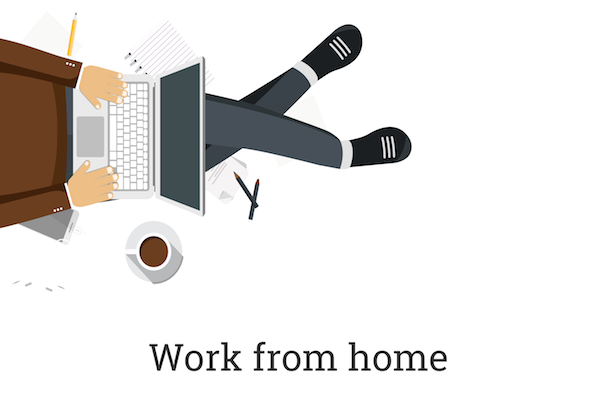
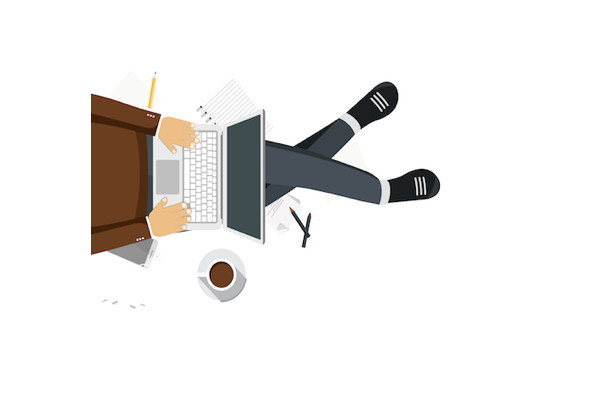
changes to the images, footer on the index file, and team page

Changed region(s): [[0.0, 0.0302, 0.75, 0.7538], [0.24, 0.8442, 0.75, 0.9347]]

diff --git a/team.html b/team.html
@@ -191,10 +191,10 @@ $(document).ready(function () {
   <a href="team.html">Team</a>
 </li>
 <li>
-  <a href="contact.html">Contact Us</a>
+  <a href="faq.html">FAQs</a>
 </li>
 <li>
-  <a href="faq.html">FAQs</a>
+  <a href="contact.html">Contact Us</a>
 </li>
       </ul>
       <ul class="nav navbar-nav navbar-right">
@@ -244,7 +244,7 @@ $(document).ready(function () {
 <img src="img/team/aboozar.png" height="200px"/>
 </div>
 <div class="col-sm-6">
-<h3>Aboozar Hadavand is a postdoctoral fellow at Johns Hopkins Bloomberg School of Public Health. His current research involves analyzing MOOC data. </h3>
+<h3>Aboozar Hadavand is a postdoctoral fellow at Johns Hopkins Bloomberg School of Public Health. His current research involves analyzing MOOC data. He has previously taught at Barnard College (Columbia University), Brooklyn College, and Yeshiva University. </h3>
 <a href="http://ahadavand.com/">More about Aboozar</a>
 </div>
 </div>

diff --git a/index.html b/index.html
@@ -191,10 +191,10 @@ $(document).ready(function () {
   <a href="team.html">Team</a>
 </li>
 <li>
-  <a href="contact.html">Contact Us</a>
+  <a href="faq.html">FAQs</a>
 </li>
 <li>
-  <a href="faq.html">FAQs</a>
+  <a href="contact.html">Contact Us</a>
 </li>
       </ul>
       <ul class="nav navbar-nav navbar-right">
@@ -299,6 +299,7 @@ $(document).ready(function () {
 </div>
 </div>
 <p><br></p>
+<hr />
 <div id="more-questions-great-check-out-our-frequently-asked-questions-learn-about-our-team-or-contact-us." class="section level3">
 <h3>More questions? Great! Check out our <a href="faq.html">frequently asked questions</a>, learn about our <a href="team.html">team</a> or <a href="contact.html">contact us</a>.</h3>
 </div>

diff --git a/README.html b/README.html
@@ -191,10 +191,10 @@ $(document).ready(function () {
   <a href="team.html">Team</a>
 </li>
 <li>
-  <a href="contact.html">Contact Us</a>
+  <a href="faq.html">FAQs</a>
 </li>
 <li>
-  <a href="faq.html">FAQs</a>
+  <a href="contact.html">Contact Us</a>
 </li>
       </ul>
       <ul class="nav navbar-nav navbar-right">

diff --git a/WhyDataScience.html b/WhyDataScience.html
@@ -191,10 +191,10 @@ $(document).ready(function () {
   <a href="team.html">Team</a>
 </li>
 <li>
-  <a href="contact.html">Contact Us</a>
+  <a href="faq.html">FAQs</a>
 </li>
 <li>
-  <a href="faq.html">FAQs</a>
+  <a href="contact.html">Contact Us</a>
 </li>
       </ul>
       <ul class="nav navbar-nav navbar-right">

diff --git a/contact.html b/contact.html
@@ -191,10 +191,10 @@ $(document).ready(function () {
   <a href="team.html">Team</a>
 </li>
 <li>
-  <a href="contact.html">Contact Us</a>
+  <a href="faq.html">FAQs</a>
 </li>
 <li>
-  <a href="faq.html">FAQs</a>
+  <a href="contact.html">Contact Us</a>
 </li>
       </ul>
       <ul class="nav navbar-nav navbar-right">

diff --git a/curriculum.html b/curriculum.html
@@ -191,10 +191,10 @@ $(document).ready(function () {
   <a href="team.html">Team</a>
 </li>
 <li>
-  <a href="contact.html">Contact Us</a>
+  <a href="faq.html">FAQs</a>
 </li>
 <li>
-  <a href="faq.html">FAQs</a>
+  <a href="contact.html">Contact Us</a>
 </li>
       </ul>
       <ul class="nav navbar-nav navbar-right">

diff --git a/faq.html b/faq.html
@@ -191,10 +191,10 @@ $(document).ready(function () {
   <a href="team.html">Team</a>
 </li>
 <li>
-  <a href="contact.html">Contact Us</a>
+  <a href="faq.html">FAQs</a>
 </li>
 <li>
-  <a href="faq.html">FAQs</a>
+  <a href="contact.html">Contact Us</a>
 </li>
       </ul>
       <ul class="nav navbar-nav navbar-right">

diff --git a/partners.html b/partners.html
@@ -191,10 +191,10 @@ $(document).ready(function () {
   <a href="team.html">Team</a>
 </li>
 <li>
-  <a href="contact.html">Contact Us</a>
+  <a href="faq.html">FAQs</a>
 </li>
 <li>
-  <a href="faq.html">FAQs</a>
+  <a href="contact.html">Contact Us</a>
 </li>
       </ul>
       <ul class="nav navbar-nav navbar-right">

diff --git a/philosophy.html b/philosophy.html
@@ -191,10 +191,10 @@ $(document).ready(function () {
   <a href="team.html">Team</a>
 </li>
 <li>
-  <a href="contact.html">Contact Us</a>
+  <a href="faq.html">FAQs</a>
 </li>
 <li>
-  <a href="faq.html">FAQs</a>
+  <a href="contact.html">Contact Us</a>
 </li>
       </ul>
       <ul class="nav navbar-nav navbar-right">

diff --git a/soon.html b/soon.html
@@ -191,10 +191,10 @@ $(document).ready(function () {
   <a href="team.html">Team</a>
 </li>
 <li>
-  <a href="contact.html">Contact Us</a>
+  <a href="faq.html">FAQs</a>
 </li>
 <li>
-  <a href="faq.html">FAQs</a>
+  <a href="contact.html">Contact Us</a>
 </li>
       </ul>
       <ul class="nav navbar-nav navbar-right">
